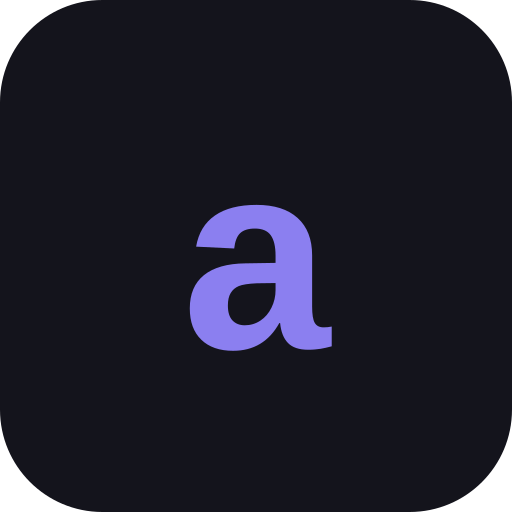
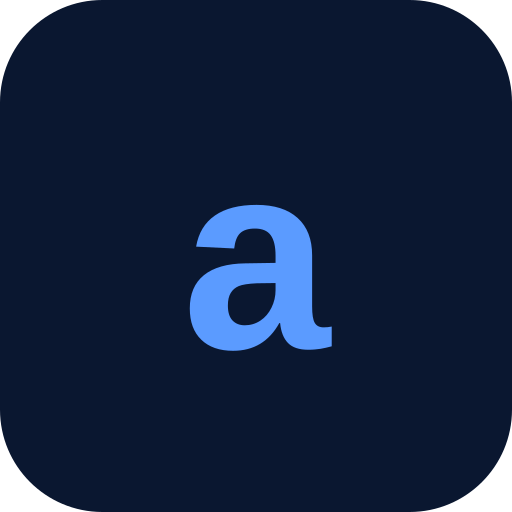
Apply navy theme natively + Tangerine house-language hero fix
- global.css: replace violet design tokens with the proven navy palette
  (bg #0a1730, panel #101f3e, raised #17294e, accent #5b9bff, deep #2f6be0,
  ink #eff4ff, muted #a6b8d8, faint #7186ac, line rgba(169,194,255,.12));
  header bg and card-hover border retinted; primary button keeps the
  variant's deeper gradient (#3e7fe8 -> #2b5cd7) for white-text contrast
- Layout.astro theme-color and manifest theme/background -> #0a1730
- favicon.svg retinted (navy 'a' #5b9bff on #0a1730); all raster icons
  regenerated with sharp
- Hero: 'turn applicants into customers' -> 'systems people use to become
  Clients' (Tangerine house vocabulary); rest of paragraph unchanged

Changed region(s): [[0.3438, 0.375, 0.6562, 0.6875]]

diff --git a/src/styles/global.css b/src/styles/global.css
@@ -1,8 +1,8 @@
 :root{
-  --bg:#0d0d12; --panel:#14141c; --panel2:#191924;
-  --ink:#f2f2f5; --muted:#a7a7b5; --faint:#6d6d7d;
-  --line:rgba(255,255,255,.09);
-  --accent:#8b7ff0; --accent2:#6a5af0;
+  --bg:#0a1730; --panel:#101f3e; --panel2:#17294e;
+  --ink:#eff4ff; --muted:#a6b8d8; --faint:#7186ac;
+  --line:rgba(169,194,255,.12);
+  --accent:#5b9bff; --accent2:#2f6be0;
 }
 *{margin:0;padding:0;box-sizing:border-box}
 html{scroll-behavior:smooth}
@@ -13,7 +13,7 @@ a{color:var(--accent);text-decoration:none}
 a:hover{text-decoration:underline}
 .wrap{max-width:880px;margin:0 auto;padding:0 24px}
 
-header{position:sticky;top:0;background:rgba(13,13,18,.85);backdrop-filter:blur(10px);
+header{position:sticky;top:0;background:rgba(10,23,48,.85);backdrop-filter:blur(10px);
   border-bottom:1px solid var(--line);z-index:10}
 .nav{display:flex;align-items:center;justify-content:space-between;height:60px}
 .brand{font-weight:700;font-size:19px;color:var(--ink);letter-spacing:-.02em}
@@ -34,7 +34,7 @@ header{position:sticky;top:0;background:rgba(13,13,18,.85);backdrop-filter:blur(
 .btn{display:inline-block;padding:11px 20px;border-radius:999px;font-size:15px;font-weight:600;
   border:1px solid var(--line);color:var(--ink);background:var(--panel)}
 .btn:hover{text-decoration:none;border-color:var(--accent);color:var(--accent)}
-.btn.primary{background:linear-gradient(135deg,var(--accent),var(--accent2));border:none;color:#fff}
+.btn.primary{background:linear-gradient(135deg,#3e7fe8,#2b5cd7);border:none;color:#fff}
 .btn.primary:hover{color:#fff;opacity:.92}
 
 section{padding:44px 0;border-top:1px solid var(--line)}
@@ -54,7 +54,7 @@ h2{font-size:14px;text-transform:uppercase;letter-spacing:.16em;color:var(--fain
 @media(max-width:640px){.grid{grid-template-columns:1fr}}
 .card{background:var(--panel);border:1px solid var(--line);border-radius:16px;padding:24px;
   display:flex;flex-direction:column;gap:8px}
-.card:hover{border-color:rgba(139,127,240,.45)}
+.card:hover{border-color:rgba(91,155,255,.45)}
 .card h3{font-size:18px;font-weight:700;letter-spacing:-.01em}
 .card h3 a{color:var(--ink)}
 .card h3 a:hover{color:var(--accent);text-decoration:none}
